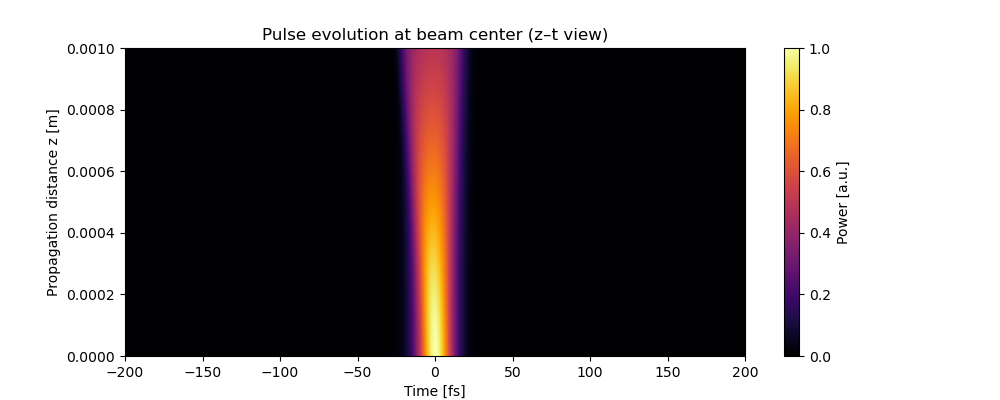
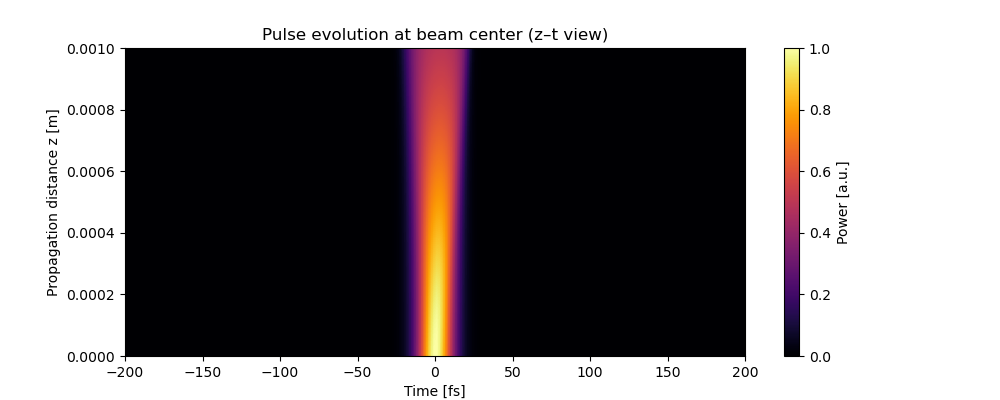
Self-steepening effect corrected

Changed region(s): [[0.372, 0.12, 0.496, 0.81]]

diff --git a/functions.py b/functions.py
@@ -181,7 +181,7 @@ def Simulation(fiber:FIBER_config,simulation:SIMULATION_config,laser: LASER_conf
         dNL_dt = fftshift(ifft(ifftshift(NL_fft_time, axes=2), axis=2), axes=2)
 
         # Self-steepening correction
-        Nonlinearity2 = (fiber.gamma / laser.omega0) * dNL_dt * simulation.dz / 2
+        Nonlinearity2 = -(fiber.gamma / laser.omega0) * dNL_dt * simulation.dz / 2
         A += Nonlinearity2
 
         # Step 1: Apply spatial FFT (x, y) → (kx, ky)
@@ -220,7 +220,7 @@ def Simulation(fiber:FIBER_config,simulation:SIMULATION_config,laser: LASER_conf
         dNL_dt = fftshift(ifft(ifftshift(NL_fft_time, axes=2), axis=2), axes=2)
 
         # Self-steepening correction
-        Nonlinearity2 = (fiber.gamma / laser.omega0) * dNL_dt * simulation.dz / 2
+        Nonlinearity2 = -(fiber.gamma / laser.omega0) * dNL_dt * simulation.dz / 2
         A_out += Nonlinearity2
 
         A_snapshots.append(A_out.copy())
